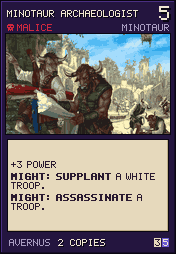
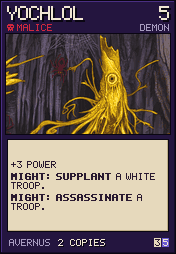
Stage NE-42: Avernus fiends instead of goblinoids and ogres — Bugbear Stalker -> Sweettooth Horror, Ogre -> Felhound, Hobgoblin Captain -> Degloth, Minotaur Archaeologist -> Yochlol, Ogre Chitterlord -> Daemogoth Titan, Chain Devil -> Arcanaloth; scene arts from D&D Beyond, races written, Cho'gall b

diff --git a/hs_unity/CARD_MAP.md b/hs_unity/CARD_MAP.md
@@ -149,7 +149,7 @@ S'theno, Neptulon TID, Neeru, Al'Akir NEW1 заменены свежими).
 |---|---|---|---|
 | ~~Rakshasa~~ (—, существо убрано из игры NE-37; на 49113/49115/49118 теперь Strahd / Relentless Slasher / Zombie Plague Spreader) | Argus, the Emerald Star (TTN_862) | `TTNFX_ArgusTheEmeraldStar_CustomSummon.prefab` | анимация свободна |
 | Nightmare (49114) | Thunderbringer (WW_440) | `WWFX_Thunderbringer_CustomSummon.prefab` | СДЕЛАНО (HsFx-77; владелец выбрал в HsBrowser 2026-10-27) |
-| Chain Devil (49513) | Cho'gall, Twilight Chieftain (YOG_530) | `YOGFX_Cho'gallTwilightChieftain_CustomSummon.prefab` | СДЕЛАНО (HsFx-76; владелец выбрал в HsBrowser 2026-10-27; готовый эффект другой карты перепечён с контуром этой) |
+| ~~Chain Devil~~ (—, существо убрано из игры NE-42; на 49513 теперь Arcanaloth) | Cho'gall, Twilight Chieftain (YOG_530) | `YOGFX_Cho'gallTwilightChieftain_CustomSummon.prefab` | анимация свободна (кадры chogall запечены) |
 | Barbed Devil (49517) | Wrathion (Story_06_Wrathion) | `Wrathion_CustomSummon.prefab` | СДЕЛАНО (HsFx-78; владелец выбрал в HsBrowser 2026-10-27) |
 | Ghast (49117) | Blood Doctor Thal'ena (JAIL_446) | `JAIL_446_BloodDoctorThal_ena_CustomSummon.prefab` | СДЕЛАНО (HsFx-79; владелец выбрал в HsBrowser 2026-10-27) |
 | Treant (49811) | Greybough (DMF_734) | `DMFFX_GreyBough_CustomSummon.prefab` | ожившее дерево |
